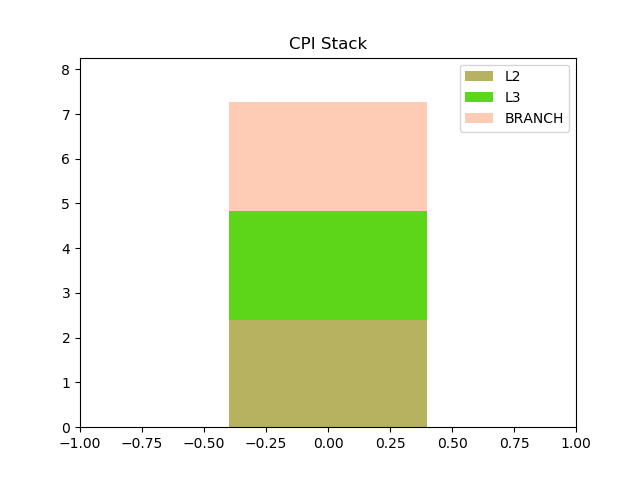
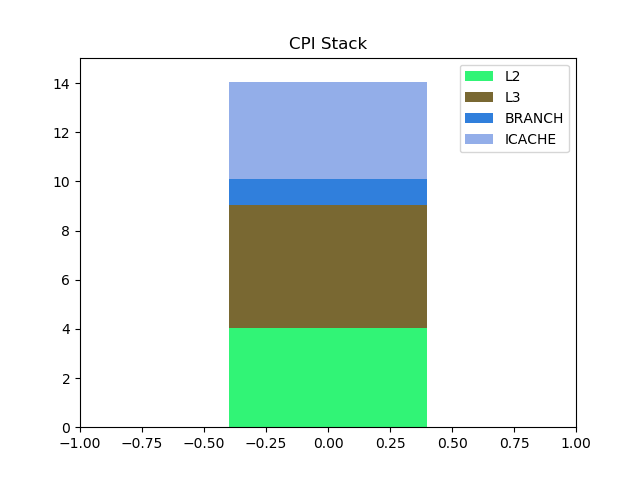
- Updated the version of likwid that the machines are using. - Currently removed the perfscope method. 	- Required modification to the cpiStack python script 		- The first line in the file doesn't have to be ignored if perfscope is off

diff --git a/Project/UI_PostProcessing/genCPIStack.py b/Project/UI_PostProcessing/genCPIStack.py
@@ -30,32 +30,33 @@ groupList = list()
 
 # Loop through the file and parse the information
 for line in cpiFile:
-    # Don't process the first line
-    if count != 0:
-        # Get the pieces of information
-        parseString = line.split(':') 
+    # Don't process the first line if using perf-scope
+    #if count != 0:
+    # Get the pieces of information
+    parseString = line.split(':') 
 
-        # Get the group from the info
-        group = parseString[1]
+    # Get the group from the info
+    group = parseString[1]
 
-        # Create the group list for the legend
-        groupList.append(group)
+    # Create the group list for the legend
+    groupList.append(group)
 
-        # Gather the CPI information if any
-        cpiList = parseString[2].split('|')
+    # Gather the CPI information if any
+    cpiList = parseString[2].split('|')
 
-        # Don't use if CPI not reported
-        if cpiList[1].find('-') == -1:
-            cpiString = cpiList[1]
-        else:
-            cpiString = '0'
-        #end if
+    # Don't use if CPI not reported
+    if cpiList[1].find('-') == -1 and cpiList[1].find('nan') == -1:
+        cpiString = cpiList[1]
+    else:
+        cpiString = '0'
+    #end if
 
-        groupCPIList.append((group, float(cpiString)))
+    groupCPIList.append((group, float(cpiString)))
     #end if
     count += 1
 #end for
 
+print groupList
 print groupCPIList
 
 arrayList = list()

diff --git a/Project/QuickPerformance/mainwindow.cpp b/Project/QuickPerformance/mainwindow.cpp
@@ -194,10 +194,10 @@ void MainWindow::executeUserApplication()
 {
     //TODO: Write in all of the likwid tools
     QString runString = likwidPerfCommand_ + application_ + " " + commandLineArgs_ + " 2>&1 | tee output.txt";
-    QString test = "likwid-perfscope -g ENERGY -C 1 -r 10 -t 500ms ";
-    test += runString;
-    //system(runString.toStdString().c_str());
-    system(test.toStdString().c_str());
+    //QString test = "likwid-perfscope -g ENERGY -C 1 -r 10 -t 500ms ";
+    //test += runString;
+    system(runString.toStdString().c_str());
+    //system(test.toStdString().c_str());
 
     // Open the output from the program and display it to the user
     QFile outputFile("./output.txt");
